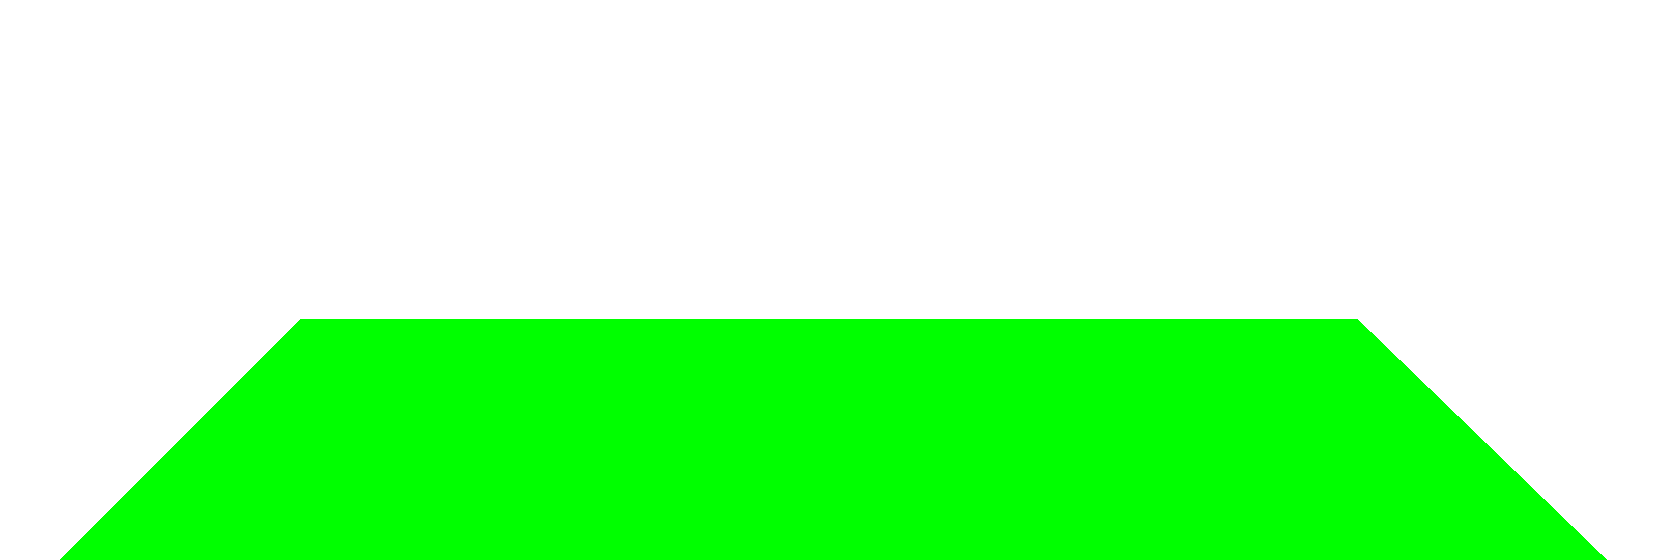
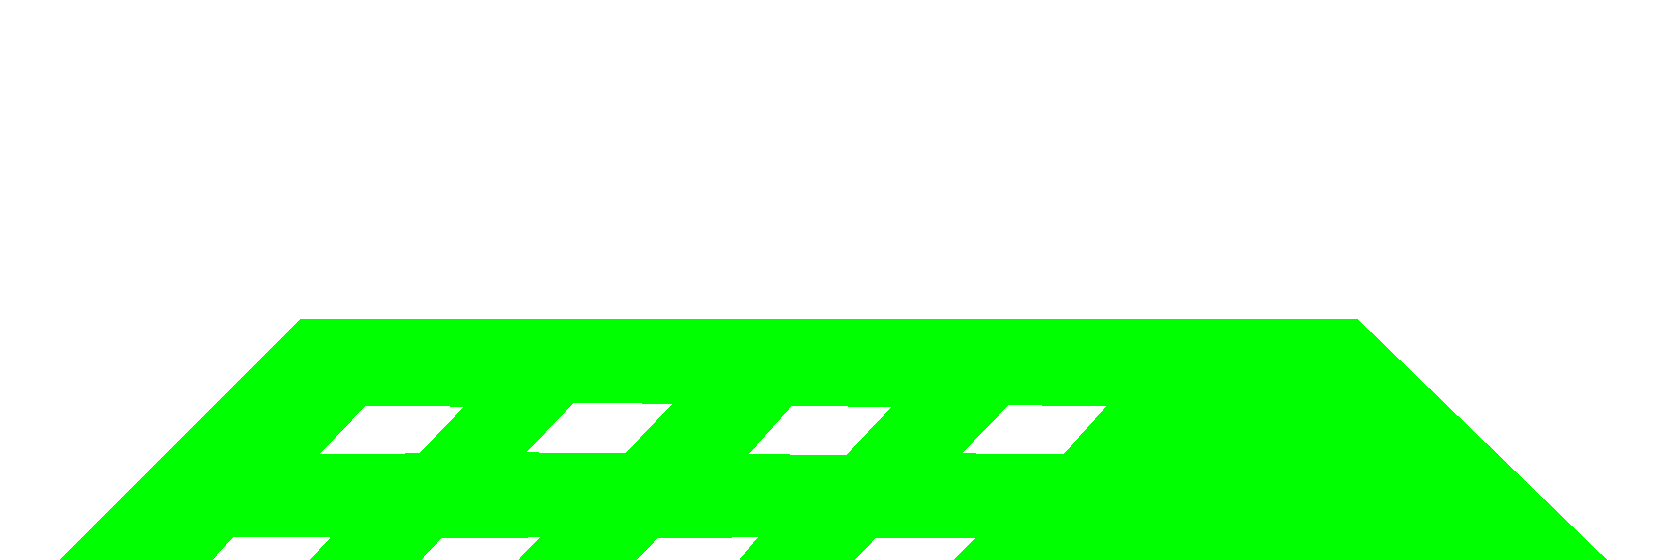
민경운 : 게임의 전체적인 맵 설치

diff --git a/Dx2dGameMKU/GameEngineContents/BackGround.cpp b/Dx2dGameMKU/GameEngineContents/BackGround.cpp
@@ -44,6 +44,7 @@ std::shared_ptr<GameEngineSpriteRenderer> BackGround::CreateBackImage(const std:
 	std::shared_ptr<GameEngineSpriteRenderer> RendererPtr = CreateComponent<GameEngineSpriteRenderer>();
 	RendererPtr->SetTexture(_ResName);
 	GameEngineTransform* RenderTransform = RendererPtr->GetTransform();
+
 	if (false == _Offset.IsZero())
 	{
 		float4 Offset = _Offset;
@@ -52,6 +53,11 @@ std::shared_ptr<GameEngineSpriteRenderer> BackGround::CreateBackImage(const std:
 			Offset.z = Offset.y;
 		}
 		RenderTransform->SetWorldPosition(Offset);
+
+		if (DeepMostZ < Offset.z)
+		{
+			DeepMostZ = Offset.z;
+		}
 	}
 
 	RenderTransform->SetLocalScale(_Scale);
@@ -62,7 +68,7 @@ void BackGround::CreateCollisionImage(const std::string_view& _ResName)
 {
 	ColRender = CreateComponent<GameEngineSpriteRenderer>();
 	ColRender->SetScaleToTexture(_ResName);
-	ColRender->GetTransform()->AddLocalPosition(float4::Back);
+	ColRender->GetTransform()->AddLocalPosition(float4::Forward * DeepMostZ + float4::Back);
 	ColRender->Off();
 	
 	ColTexture = GameEngineTexture::Find(_ResName);

diff --git a/Dx2dGameMKU/GameEngineContents/TownBossLevel.cpp b/Dx2dGameMKU/GameEngineContents/TownBossLevel.cpp
@@ -13,7 +13,7 @@ const std::vector<std::pair<std::string_view, float4>> TownBossLevel::BGInfoes =
 	{"TownBossBG.png", float4{0.f, 0.f, 500.f}},
 };
 
-const std::string_view TownBossLevel::CollisionImageName = "???";
+const std::string_view TownBossLevel::CollisionImageName = "TownBossColBG.png";
 
 TownBossLevel::TownBossLevel()
 {
@@ -54,7 +54,7 @@ void TownBossLevel::CreateBackGrounds()
 	const float4 LevelArea = ResourceHelper::GetTextureScale("TownBossBG.png") * RCGDefine::ResourceScaleConvertor;
 	FieldLevelBase::InitLevelArea(LevelArea, TileInfoData());
 	FieldLevelBase::CreateBackGrounds(BGInfoes);
-	//FieldLevelBase::CreateCollisionImage(CollisionImageName);
+	FieldLevelBase::CreateCollisionImage(CollisionImageName);
 }
 
 void TownBossLevel::CreateDoors()

diff --git a/Dx2dGameMKU/GameEngineContents/OceanLevel.cpp b/Dx2dGameMKU/GameEngineContents/OceanLevel.cpp
@@ -13,7 +13,7 @@ const std::vector<std::pair<std::string_view, float4>> OceanLevel::BGInfoes =
 	{"OceanBG.png", float4{0.f, 0.f, 500.f}},
 };
 
-const std::string_view OceanLevel::CollisionImageName = "???";
+const std::string_view OceanLevel::CollisionImageName = "OceanColBG.png";
 
 
 
@@ -56,7 +56,7 @@ void OceanLevel::CreateBackGrounds()
 	const float4 LevelArea = ResourceHelper::GetTextureScale("OceanBG.png") * RCGDefine::ResourceScaleConvertor;
 	FieldLevelBase::InitLevelArea(LevelArea, TileInfoData());
 	FieldLevelBase::CreateBackGrounds(BGInfoes);
-	//FieldLevelBase::CreateCollisionImage(CollisionImageName);
+	FieldLevelBase::CreateCollisionImage(CollisionImageName);
 }
 
 void OceanLevel::CreateDoors()

diff --git a/Dx2dGameMKU/GameEngineContents/BackGround.h b/Dx2dGameMKU/GameEngineContents/BackGround.h
@@ -54,6 +54,7 @@ protected:
 private:
 	TileInfoData TileInfo;
 	float4 MapScale = float4::Zero;
+	float DeepMostZ = 0.f;
 	std::shared_ptr <class GameEngineSpriteRenderer> ColRender = nullptr;
 	std::shared_ptr <class GameEngineTexture> ColTexture = nullptr;
 	std::shared_ptr <class GameEngineRenderer> TileRender;

diff --git a/Dx2dGameMKU/GameEngineContents/RCG_GameCore.cpp b/Dx2dGameMKU/GameEngineContents/RCG_GameCore.cpp
@@ -25,7 +25,7 @@ void RCG_GameCore::GameStart()
 	GUIManager::Init();
 
 	KeyMgr::CreateKey();
-	LevelMgr::CreateLevel(LevelNames::Shop_GymLevel);
+	LevelMgr::CreateLevel(LevelNames::SchoolEntryLevel);
 }
 
 
